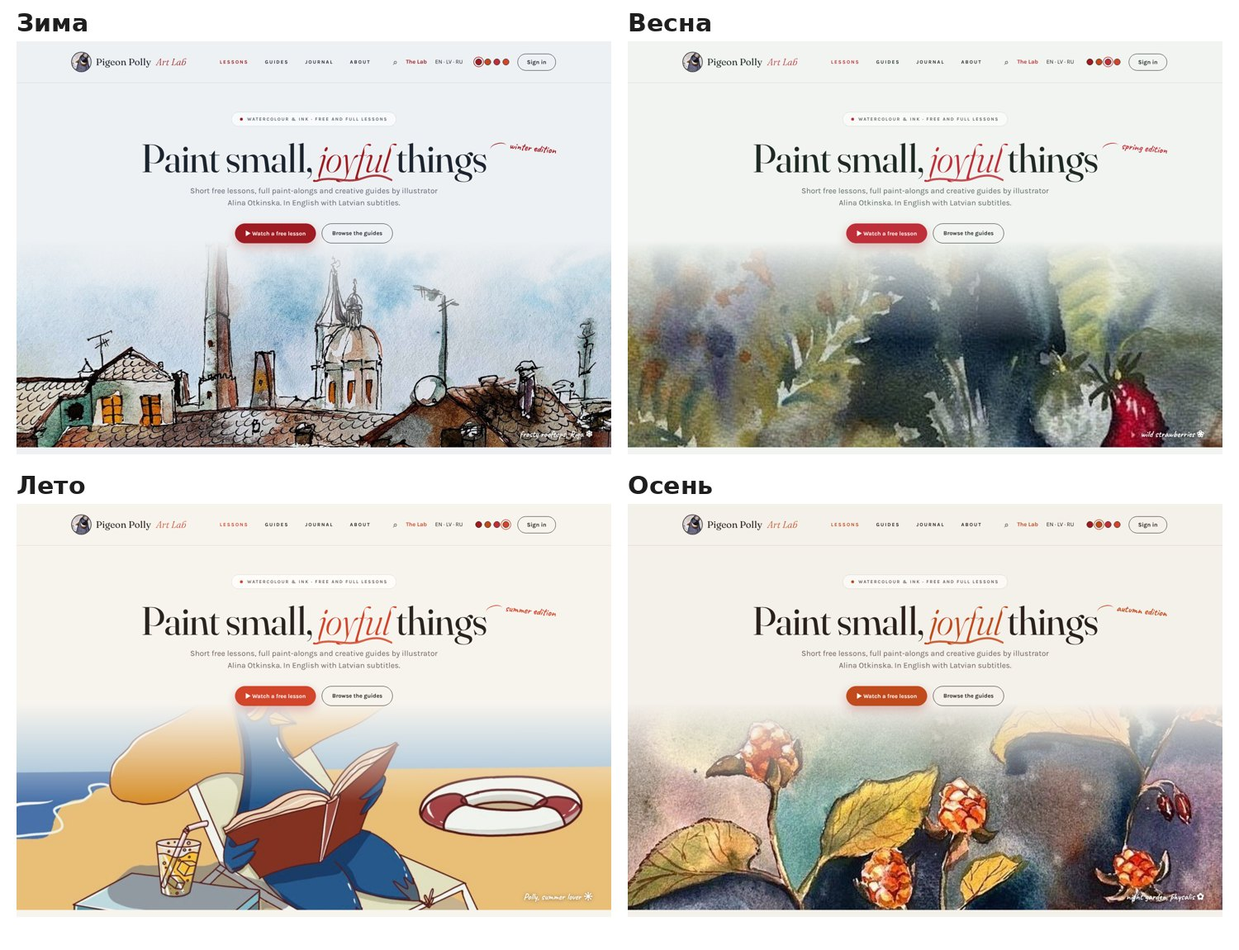
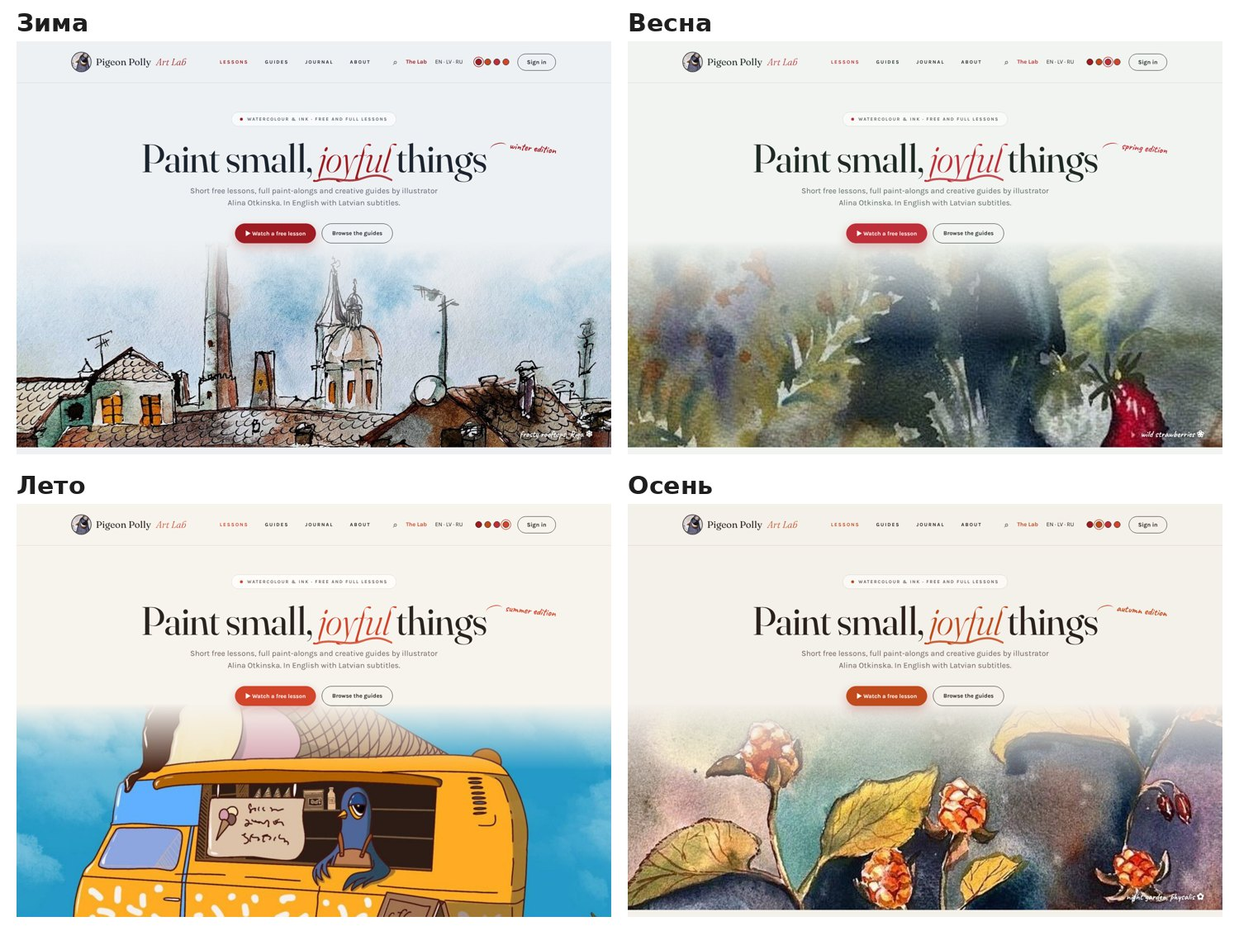
Редизайн 2.0: лето — фургон с мороженым, Полли целиком (макет на ветке)
Claude-Session: https://claude.ai/code/session_015qZXG8SjAVYLjQMVDdRoKk

Changed region(s): [[0.0, 0.7304, 0.4907, 0.9739]]

diff --git a/_held/redesign-2.0/var-i-summer.html b/_held/redesign-2.0/var-i-summer.html
@@ -25,7 +25,7 @@ em{font-style:italic;color:var(--wine);font-weight:300}
 .hero p{font-size:19px;color:var(--mut);max-width:32em;margin:0 auto 34px}
 .ctas{display:flex;gap:14px;justify-content:center}
 .pano{position:relative;height:500px;margin-top:-6px}
-.pano img{position:absolute;inset:0;width:100%;height:100%;object-fit:cover;object-position:center 22%;-webkit-mask-image:linear-gradient(to bottom,transparent 0,rgba(0,0,0,.4) 20%,#000 48%);mask-image:linear-gradient(to bottom,transparent 0,rgba(0,0,0,.4) 20%,#000 48%)}
+.pano img{position:absolute;inset:0;width:100%;height:100%;object-fit:cover;object-position:center 45%;-webkit-mask-image:linear-gradient(to bottom,transparent 0,rgba(0,0,0,.4) 20%,#000 48%);mask-image:linear-gradient(to bottom,transparent 0,rgba(0,0,0,.4) 20%,#000 48%)}
 .tagp{position:absolute;z-index:2;display:flex;flex-direction:column;align-items:center}.tagp span{background:var(--sheet);border-radius:999px;padding:8px 15px;font:700 11px Karla;letter-spacing:.14em;text-transform:uppercase;box-shadow:0 6px 16px rgba(31,35,38,.15);display:flex;gap:8px;align-items:center}.tagp span:before{content:"";width:7px;height:7px;border-radius:50%;background:var(--wine)}.tagp i{width:1px;height:46px;background:var(--ink)}
 .facts{background:var(--gr);color:var(--grtx)}.facts span{flex:1;padding:24px 44px;font-size:12px;color:var(--grmut);border-right:1px solid rgba(233,226,214,.12)}.facts span:last-child{border:0}.facts b{display:block;font:400 22px Fraunces;color:var(--grtx)}
 .facts .w{display:flex;padding:0}
@@ -182,7 +182,7 @@ section{position:relative}
 .cover h3{font:italic 300 48px Fraunces;margin:10px 0}.cover .hand{font-size:30px}
 .cover .k{color:var(--wine)}
 .cover .brush{width:70px;height:70px;border-radius:50%;border:1.5px dashed var(--wine);display:grid;place-items:center;font-size:26px;margin-top:16px}
-</style></head><body><svg width="0" height="0" style="position:absolute"><filter id="rough"><feTurbulence type="fractalNoise" baseFrequency=".018" numOctaves="3" seed="4"/><feDisplacementMap in="SourceGraphic" scale="60"/></filter></svg><header class="hd"><div class="w"><span class="lg"><img src="img/logo-wc.png">Pigeon Polly <i>Art Lab</i></span>
+.pano{height:620px}.pano img{-webkit-mask-image:linear-gradient(to bottom,transparent 0,#000 26%);mask-image:linear-gradient(to bottom,transparent 0,#000 26%)}</style></head><body><svg width="0" height="0" style="position:absolute"><filter id="rough"><feTurbulence type="fractalNoise" baseFrequency=".018" numOctaves="3" seed="4"/><feDisplacementMap in="SourceGraphic" scale="60"/></filter></svg><header class="hd"><div class="w"><span class="lg"><img src="img/logo-wc.png">Pigeon Polly <i>Art Lab</i></span>
 <nav class="nv"><span class="on">Lessons</span><span>Guides</span><span>Journal</span><span>About</span></nav>
 <div class="hr"><span class="s">⌕</span><span class="lb">The Lab</span><span>EN · LV · RU</span><span class="switch"><a class="" style="background:#9E1B22" title="Winter"></a><a class="" style="background:#C04A1C" title="Autumn"></a><a class="" style="background:#BE2F3A" title="Spring"></a><a class="on" style="background:#D2452B" title="Summer"></a></span><span class="btn si" style="padding:11px 22px">Sign in</span></div></div></header>
 
@@ -190,7 +190,7 @@ section{position:relative}
 <span class="sea">summer edition</span><h1>Paint small, <em>joyful<svg viewBox="0 0 300 30" preserveAspectRatio="none"><path d="M5 20 C 60 6, 120 28, 180 14 S 270 10, 295 18"/></svg></em> things</h1>
 <p>Short free lessons, full paint-alongs and creative guides by illustrator Alina Otkinska. In English with Latvian subtitles.</p>
 <div class="ctas"><span class="btn pri">▶ Watch a free lesson</span><span class="btn">Browse the guides</span></div></div>
-<div class="pano"><img src="img/hero-summer.jpg"><span class="cap2">Polly, summer lover ☀</span></div></section>
+<div class="pano"><img src="img/hero-summer.jpg"><span class="cap2">Polly’s ice cream van ☀</span></div></section>
 
 
 <section class="fl"><div class="w"><div><span class="hand">hi! let’s paint something small ✿</span><h2>Free lessons, <i>ten minutes each</i></h2>

diff --git a/_held/redesign-2.0/gen10.py b/_held/redesign-2.0/gen10.py
@@ -8,7 +8,7 @@ SEASONS = {
  'winter': dict(name='Winter', ru='Зима', bg='#EEF1F3', sheet='#F8FAFB', ink='#1C2430', mut='#5D6670', line='#D3DAE0', gr='#26303A', gr2='#313C47', acc='#9E1B22', acc2='#E2544A', inner='#1B2632', hero='img/hero-winter.jpg', pos='center 32%', note='frosty rooftops, Riga ❄', tag='winter edition'),
  'autumn': dict(name='Autumn', ru='Осень', bg='#F4F0EA', sheet='#FBF9F5', ink='#2A211C', mut='#6C6058', line='#DED5CA', gr='#2E2521', gr2='#3A302B', acc='#C04A1C', acc2='#EE7A45', inner='#2A1D16', hero='img/hero-autumn.jpg', pos='center 45%', note='night garden, physalis ✿', tag='autumn edition'),
  'spring': dict(name='Spring', ru='Весна', bg='#F1F4F0', sheet='#FAFBF9', ink='#1F2A25', mut='#5E6A63', line='#D4DDD6', gr='#26302B', gr2='#313C36', acc='#BE2F3A', acc2='#E85C64', inner='#1C2A23', hero='img/hero-spring.jpg', pos='center 55%', note='wild strawberries ❀', tag='spring edition'),
- 'summer': dict(name='Summer', ru='Лето', bg='#F7F4EE', sheet='#FFFDFA', ink='#2A2420', mut='#6D635B', line='#E3DACE', gr='#2F2622', gr2='#3B312C', acc='#D2452B', acc2='#F07A55', inner='#3A1A1C', hero='img/hero-summer.jpg', pos='center 22%', note='Polly, summer lover ☀', tag='summer edition'),
+ 'summer': dict(name='Summer', ru='Лето', bg='#F7F4EE', sheet='#FFFDFA', ink='#2A2420', mut='#6D635B', line='#E3DACE', gr='#2F2622', gr2='#3B312C', acc='#D2452B', acc2='#F07A55', inner='#3A1A1C', hero='img/hero-summer.jpg', pos='center 45%', note='Polly’s ice cream van ☀', tag='summer edition'),
 }
 
 def stain(col, seed, op):
@@ -93,6 +93,8 @@ def build(key, s, mode=''):
                  ('#E2544A', 'var(--acc2)')]:
         assert a in css, a; css = css.replace(a, b)
     css = css.replace('object-position:center 32%', 'object-position:' + s['pos'])
+    if key == 'summer':
+        css += '.pano{height:620px}.pano img{-webkit-mask-image:linear-gradient(to bottom,transparent 0,#000 26%);mask-image:linear-gradient(to bottom,transparent 0,#000 26%)}'
     css = css.replace('.post img{width:110px;height:110px;object-fit:cover;border-radius:55px 55px 3px 3px}', '.post img{width:130px;height:96px;object-fit:cover;border-radius:3px}')
     css = css.replace('STAINS', ', '.join([stain(s['acc'], 4, .22), stain(s['mut'], 9, .2), stain(s['acc'], 12, .16)]) + ';background-size:420px 420px,300px 300px,200px 200px;background-position:8% 20%,88% 70%,60% 10%')
     b = B0

diff --git a/docs/plan-status.md b/docs/plan-status.md
@@ -55,7 +55,7 @@
 | 23 | готово | семена: в магазине (блок «🌱 Семена для огорода») и лавке, иногда в играх (Дождь, Зельеварня, Блинная, Титос, Смена, жуки), редкие — 7 дней подряд с бонусом карточки дня, волшебные — 7 дней полива подряд (новость 🌱); 15 вещей для огорода (вид garden, ★ золотая лейка и оранжерея, «🎲 Сюрприз»), стоят в огороде сами, можно спрятать; правила в «🥕 Огород птички» |
 | 29 | готово | «Смена с Полли» /shift/ (меню «Играть» ⏱, плитка на /games/ и главной): таймер 20/40/60/90 мин или своё до 3 ч, 3 бесконечные ретро-мелодии кодом (shift-music.js), новый детальный кабинет 480×270 (tools/rooms/shift.py — по просьбе Алины «более детальный»), Полли в галстуке: печатает и в случайном порядке — кофе, обед, кулер, разминка, копир и принтер, папки, цветок, дипломы, комок в урну; таймер на столе; финал — галстук долой, гитара, пиксельная колыбельная, сон. Вошедшим — повышение (бесконечная лестница должностей) и 🔘 за каждый час (worker/shift.js, правило shiftBtn) |
 | 28 | готово | Зельеварня: совиное перо (и другие новые эмодзи) — своя картинка, где эмодзи нет; 3 дня подряд в игре → зелье оживления, его кладут на котика в комнате — котик живой навсегда (бегает, потягивается, дерёт диван). Допущения: «кошка» — «Домашний котик» furn|cat (статуя чёрного кота не оживает); день засчитывает пройденный лабиринт или сваренное зелье; после зелья серия заново, в сумке не больше 3 неиспользованных; число дней — в «📜 Правилах» |
-| 2.0 редизайн | ждёт «да» Алины | Ответы получены. Макеты и стратегия (9 пунктов) — _held/redesign-2.0/ (strategy.md, home/shop/lab/wobbleland/admin/journey.html, sheet1-home.jpg, sheet2-pages.jpg), только на ветке. Круг правок 1: убран доминирующий зелёный (какао + бургунд), убран пиксельный стиль (Лаборатория — ночной сливовый скетчбук, жители — рисованные карточки, логотип-предложение из акварельной карточки). Круг 2: продажа артов (добавляет сама, покупают вошедшие, счёт → оплачено → отправлено; product/orders/admin-art/admin-orders.html), цены-ориентиры, мастер-классы вне сайта (YouTube бесплатно, Patreon платно, Learn — витрина ссылок; learn.html) — strategy.md §10–12, sheet3-shop-learn.jpg. Круг 3: 2 альтернативы главной без продажи картин, продукт — уроки + гайды + материалы: var-a.html «Альманах» (календарь уроков, палитра месяца, полка книг), var-b.html «Архив с папками» (коллаж, вкладки-папки) — sheet4-variants.jpg. A не понравился, B — «ничего, но много цвета и деталей». Круг 4: var-c.html — основа первого макета + папки из B, один акцент (терракота #B4502F), без продажи картин — sheet5-variant-c.jpg. C: «не нравится гамма», хочет холодные глубокие тёмные + 1 акцент, просторную шапку (референс Libertas — задумка да, стиль нет). Круг 5: var-d.html — холодная бумага #EDF0F1, чернила #16202E, глубокий #1C2A3D, акцент хурма #D2643A; шапка 104 px, центрованный первый экран + панорама «Крыши» акварелью с метками — sheet6-variant-d.jpg. D: «всё ещё не нравится», ближе к тёмной части мудборда (Dark Eden, Wild Woman, тёмные папки), блоки «поинтереснее, а не просто отсечение». Круг 6: var-e.html «Тёмный архив» — фон #1B1E21, бумага #EAE1CF, сланец #7D8990, акцент ржавчина #B0573A; арка с «Ночным садом» под заголовком, записка-урок со скотчем, вертикальные папки-разделители, рваный лист с гайдами, приколотые материалы, клуб — билет поверх фото, огромное название в подвале — sheet7-variant-e.jpg. E: «слишком тёмная, перегружает», нет блога. Круг 7: var-f.html «Светлый архив» — те же слоистые блоки на светлой бумаге #EEEBE5, тёмный только в папке 02 и подвале, акцент ржавчина; + блок Journal (главная статья с карточкой поверх фото + 3 записи + «раньше на Patreon»). Заголовки статей — примеры (D1 недоступна) — sheet8-variant-f.jpg. F: дизайн и цвета «пока не очень». Нравится концептуально: арка с ягодами (hero), полка с гайдами, сетка уроков как в learn.html (free/paint-alongs), «обо мне» + карточки Воббленда, полароид «Лаборатории». Убрать: записку «урок недели» и мастер-классы в Риге (их пока нет — будет пусто). Круг 8: palettes.html / sheet9-palettes.jpg — 4 гаммы × шрифт на одной композиции (1 чернила-бумага/Fraunces, 2 ночной сад/Cormorant, 3 бордовый архив/Playfair, 4 графит-ржавчина/DM Serif). Ответ: «квадратность и обычность не нравятся, хочется невероятного: тёплые ягоды на северном тёмном болоте, старые книги, свет свечи, воск, корица, детективные досье, тряпки в красках». Круг 9: var-g.html (gen8.py) «Свеча на болоте» — одна сцена: болотная ночь с туманом и светом свечи (свет идёт за мышью), арка с ягодами + свеча, IM Fell English + Special Elite + Caveat, сургучная печать-кнопка, досье с уликами и красной нитью, книги на полке с лентами, материалы на рваной холщовой тряпке с пятнами краски, статьи блога — письма со штемпелями, камея-портрет, карты Воббленда веером, полароид Лаборатории — sheet10-variant-g.jpg, sheet10-hero.jpg. G: «слишком переиграно». Начали заново со списка. Выбор Алины для главной: 1 шапка, 2 первый экран, 3 факты (без повтора гайдов), 8 голосование «что рисуем», 11 гайды и книги, 17 блог (3 записи), 19 обо мне, 25 дверь в Лабораторию, 28 подвал, 29 поиск; если не перегрузит — 5 бесплатные уроки, 14 Patreon, 15 подписка. Порядок (решаю сама): шапка+поиск → первый экран → факты → (уроки) → гайды → голосование+почта → блог → (Patreon мини) → обо мне → Лаборатория → подвал. Круг 10: гаммы только на первом блоке — palettes2.html / sheet11-palettes.jpg (6 гамм, один шрифт Fraunces+Karla). Ближе всего 5 «Графит и сургуч», но «пустая, холодная, слишком воздушная». Круг 11: palettes3.html / sheet12-graphite.jpg — 4 вида тёплого графита: 5a тёмная полоса фактов, 5b арка на графитовой панели, 5c тёмная шапка, 5d графит целиком; плотнее, фактура бумаги, подпись к картине. Алина прислала коллаж любимых блоков: Лаборатория (сливовый + полароид), гайды на рваном листе, коллаж «Free lesson» из B, клуб-билет поверх фото, «обо мне» + голосование (тёмное), блог из F, первый экран как в D (шапка нравится больше всего), акцент — винный. Круг 12: var-h.html (gen9.py) — сборка этих блоков в одной гамме: фон #E7E2DA, графит #2B2826, винный #8A2638, слива #2C1F2B для Лаборатории — sheet13-variant-h.jpg. Правка: фон ближе к белому (как D), винный — в красный. Круг 13: фон #EEF0F1, листы #F8F9F9, графит #2A2C2E, винно-красный #9E1B22 (на тёмном #E2544A) — sheet14-variant-h2.jpg. Правки по PDF: убрать метки на панораме и полосу фактов; картинки блога не аркой, а прямоугольником; «обо мне» — только текст + кнопка на раздел (голосование убрано); Лаборатория закрыта светлым слоем краски, при наведении краска расступается (внутри не сливовый). Новое: 4 сезонные гаммы, главная картинка по сезону, немного живости; только компьютер. Круг 14: gen10.py → var-i-{winter,spring,summer,autumn}.html (+autumn-open): зима — крыши, весна — листья с клубникой (16), лето — красная стена (14), осень — физалис (15); мазок под «joyful», подпись «… edition», акварельные пятна, подпись к картине, кружки-сезоны в шапке; Лаборатория — слой краски с рваным краем (SVG-фильтр), открывается кругом от курсора — sheet15…17. Правки: пятна акварели убрать («как жир»), летнюю картинку заменить, закрытую краску заменить папкой. Круг 15: пятна убраны; лето — bird/2022-pigeon-polly-summer-lover; Лаборатория — крафтовая папка «THE LAB / for curious birds only», при наведении обложка открывается (3D), внутри заметка на тетрадном листе с кнопкой и полароид на скрепке (var-i-autumn-half/-open — кадры для листа). Листы обновлены. Дальше: правки или «да». Учебники в профиле не трогать |
+| 2.0 редизайн | ждёт «да» Алины | Ответы получены. Макеты и стратегия (9 пунктов) — _held/redesign-2.0/ (strategy.md, home/shop/lab/wobbleland/admin/journey.html, sheet1-home.jpg, sheet2-pages.jpg), только на ветке. Круг правок 1: убран доминирующий зелёный (какао + бургунд), убран пиксельный стиль (Лаборатория — ночной сливовый скетчбук, жители — рисованные карточки, логотип-предложение из акварельной карточки). Круг 2: продажа артов (добавляет сама, покупают вошедшие, счёт → оплачено → отправлено; product/orders/admin-art/admin-orders.html), цены-ориентиры, мастер-классы вне сайта (YouTube бесплатно, Patreon платно, Learn — витрина ссылок; learn.html) — strategy.md §10–12, sheet3-shop-learn.jpg. Круг 3: 2 альтернативы главной без продажи картин, продукт — уроки + гайды + материалы: var-a.html «Альманах» (календарь уроков, палитра месяца, полка книг), var-b.html «Архив с папками» (коллаж, вкладки-папки) — sheet4-variants.jpg. A не понравился, B — «ничего, но много цвета и деталей». Круг 4: var-c.html — основа первого макета + папки из B, один акцент (терракота #B4502F), без продажи картин — sheet5-variant-c.jpg. C: «не нравится гамма», хочет холодные глубокие тёмные + 1 акцент, просторную шапку (референс Libertas — задумка да, стиль нет). Круг 5: var-d.html — холодная бумага #EDF0F1, чернила #16202E, глубокий #1C2A3D, акцент хурма #D2643A; шапка 104 px, центрованный первый экран + панорама «Крыши» акварелью с метками — sheet6-variant-d.jpg. D: «всё ещё не нравится», ближе к тёмной части мудборда (Dark Eden, Wild Woman, тёмные папки), блоки «поинтереснее, а не просто отсечение». Круг 6: var-e.html «Тёмный архив» — фон #1B1E21, бумага #EAE1CF, сланец #7D8990, акцент ржавчина #B0573A; арка с «Ночным садом» под заголовком, записка-урок со скотчем, вертикальные папки-разделители, рваный лист с гайдами, приколотые материалы, клуб — билет поверх фото, огромное название в подвале — sheet7-variant-e.jpg. E: «слишком тёмная, перегружает», нет блога. Круг 7: var-f.html «Светлый архив» — те же слоистые блоки на светлой бумаге #EEEBE5, тёмный только в папке 02 и подвале, акцент ржавчина; + блок Journal (главная статья с карточкой поверх фото + 3 записи + «раньше на Patreon»). Заголовки статей — примеры (D1 недоступна) — sheet8-variant-f.jpg. F: дизайн и цвета «пока не очень». Нравится концептуально: арка с ягодами (hero), полка с гайдами, сетка уроков как в learn.html (free/paint-alongs), «обо мне» + карточки Воббленда, полароид «Лаборатории». Убрать: записку «урок недели» и мастер-классы в Риге (их пока нет — будет пусто). Круг 8: palettes.html / sheet9-palettes.jpg — 4 гаммы × шрифт на одной композиции (1 чернила-бумага/Fraunces, 2 ночной сад/Cormorant, 3 бордовый архив/Playfair, 4 графит-ржавчина/DM Serif). Ответ: «квадратность и обычность не нравятся, хочется невероятного: тёплые ягоды на северном тёмном болоте, старые книги, свет свечи, воск, корица, детективные досье, тряпки в красках». Круг 9: var-g.html (gen8.py) «Свеча на болоте» — одна сцена: болотная ночь с туманом и светом свечи (свет идёт за мышью), арка с ягодами + свеча, IM Fell English + Special Elite + Caveat, сургучная печать-кнопка, досье с уликами и красной нитью, книги на полке с лентами, материалы на рваной холщовой тряпке с пятнами краски, статьи блога — письма со штемпелями, камея-портрет, карты Воббленда веером, полароид Лаборатории — sheet10-variant-g.jpg, sheet10-hero.jpg. G: «слишком переиграно». Начали заново со списка. Выбор Алины для главной: 1 шапка, 2 первый экран, 3 факты (без повтора гайдов), 8 голосование «что рисуем», 11 гайды и книги, 17 блог (3 записи), 19 обо мне, 25 дверь в Лабораторию, 28 подвал, 29 поиск; если не перегрузит — 5 бесплатные уроки, 14 Patreon, 15 подписка. Порядок (решаю сама): шапка+поиск → первый экран → факты → (уроки) → гайды → голосование+почта → блог → (Patreon мини) → обо мне → Лаборатория → подвал. Круг 10: гаммы только на первом блоке — palettes2.html / sheet11-palettes.jpg (6 гамм, один шрифт Fraunces+Karla). Ближе всего 5 «Графит и сургуч», но «пустая, холодная, слишком воздушная». Круг 11: palettes3.html / sheet12-graphite.jpg — 4 вида тёплого графита: 5a тёмная полоса фактов, 5b арка на графитовой панели, 5c тёмная шапка, 5d графит целиком; плотнее, фактура бумаги, подпись к картине. Алина прислала коллаж любимых блоков: Лаборатория (сливовый + полароид), гайды на рваном листе, коллаж «Free lesson» из B, клуб-билет поверх фото, «обо мне» + голосование (тёмное), блог из F, первый экран как в D (шапка нравится больше всего), акцент — винный. Круг 12: var-h.html (gen9.py) — сборка этих блоков в одной гамме: фон #E7E2DA, графит #2B2826, винный #8A2638, слива #2C1F2B для Лаборатории — sheet13-variant-h.jpg. Правка: фон ближе к белому (как D), винный — в красный. Круг 13: фон #EEF0F1, листы #F8F9F9, графит #2A2C2E, винно-красный #9E1B22 (на тёмном #E2544A) — sheet14-variant-h2.jpg. Правки по PDF: убрать метки на панораме и полосу фактов; картинки блога не аркой, а прямоугольником; «обо мне» — только текст + кнопка на раздел (голосование убрано); Лаборатория закрыта светлым слоем краски, при наведении краска расступается (внутри не сливовый). Новое: 4 сезонные гаммы, главная картинка по сезону, немного живости; только компьютер. Круг 14: gen10.py → var-i-{winter,spring,summer,autumn}.html (+autumn-open): зима — крыши, весна — листья с клубникой (16), лето — красная стена (14), осень — физалис (15); мазок под «joyful», подпись «… edition», акварельные пятна, подпись к картине, кружки-сезоны в шапке; Лаборатория — слой краски с рваным краем (SVG-фильтр), открывается кругом от курсора — sheet15…17. Правки: пятна акварели убрать («как жир»), летнюю картинку заменить, закрытую краску заменить папкой. Круг 15: пятна убраны; лето — bird/2022-pigeon-polly-summer-lover; Лаборатория — крафтовая папка «THE LAB / for curious birds only», при наведении обложка открывается (3D), внутри заметка на тетрадном листе с кнопкой и полароид на скрепке (var-i-autumn-half/-open — кадры для листа). Листы обновлены. Лето: у Полли отрезало голову → «Ice cream van» (bird/2022-pigeon-polly-started-own-small-business), панорама для лета 620 px, короче растушёвка — Полли целиком (sheet18-summer-hero.jpg). Дальше: правки или «да». Учебники в профиле не трогать |
 | Воббленд: праздничные письма | готово | в каждый праздник Воббленда (33 даты, каждый год; вещь уже есть — другая того же вида, вещей вида больше нет — пуговки, правило wlBtn) — тематическая вещь всем птичкам с ником, праздничное письмо в конвертике (поздравление, подарок, «Заглянуть в Воббленд») и письмо на почту на языке птички со ссылкой на /wobbleland/ (worker/wl-holidays.js, поле gift в wobbleland.json); галочка в профиле, отписка из письма, privacy на 3 языках. Письма уйдут только после секретов RESEND_KEY + MAIL_FROM (сейчас писем нет — решение этапа 12) |
 | кабинет: разгрузка | готово | меню 29 → 22 (ярлыки скрыты, адреса работают), «📊 Обзор» вместо статистики во «Входящих» и разделов «Челлендж»/«Стая», автопилот — только в «Правилах», магазин без двойного списка вещей и 16 кнопок «Поставить»; меню — 6 групп, разделы — вкладками сверху (docs/admin.md) |
 | Воббленд: прогулка по городу | готово | клик по гербу — пиксельная улица города (11 городов, рисуются кодом), гуляет птичка посетителя: жители в дверях, лавка блюд, доска праздников, указатели, вокзал между городами, зверушки, 5 находок (site/assets/wl-town.js, docs/wobbleland.md «Прогулка») |
